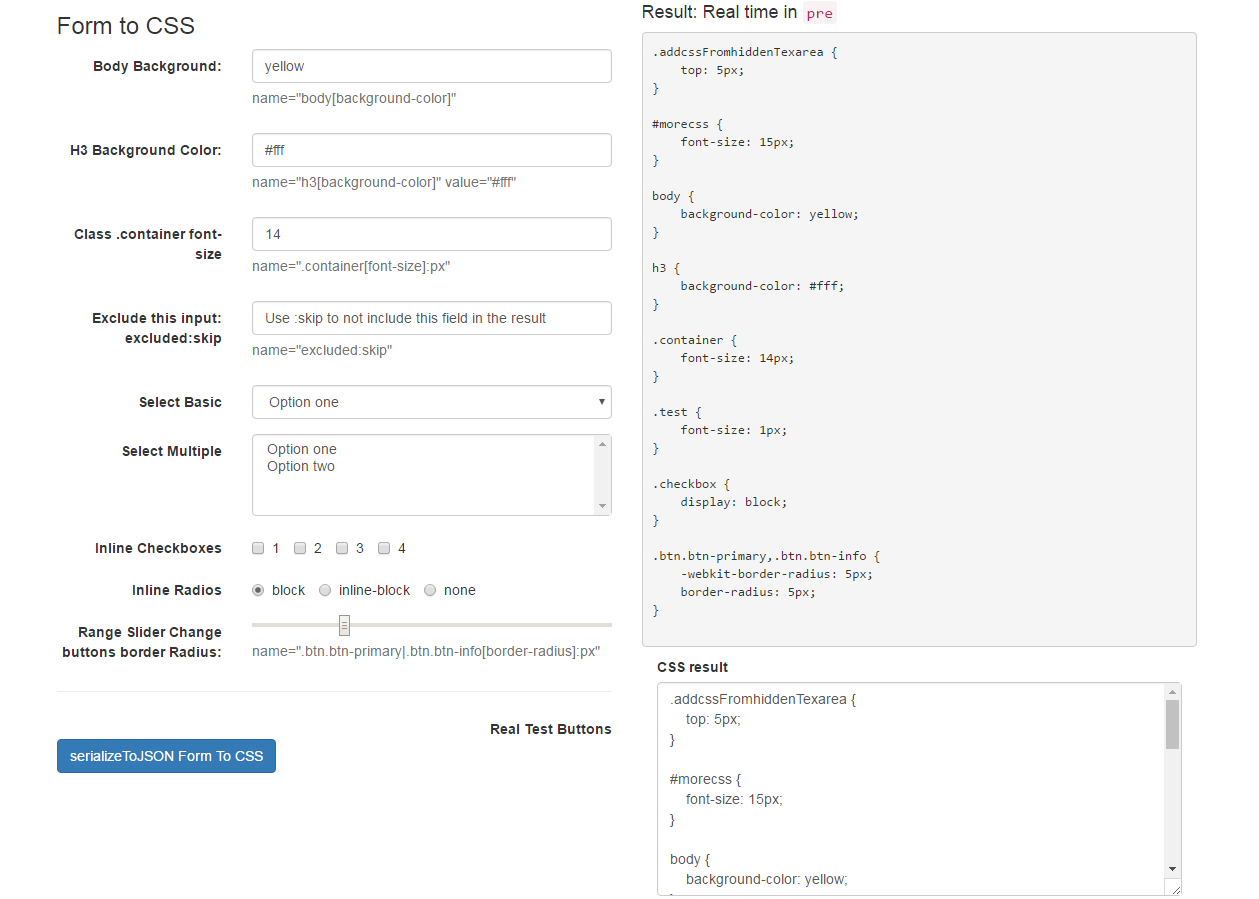
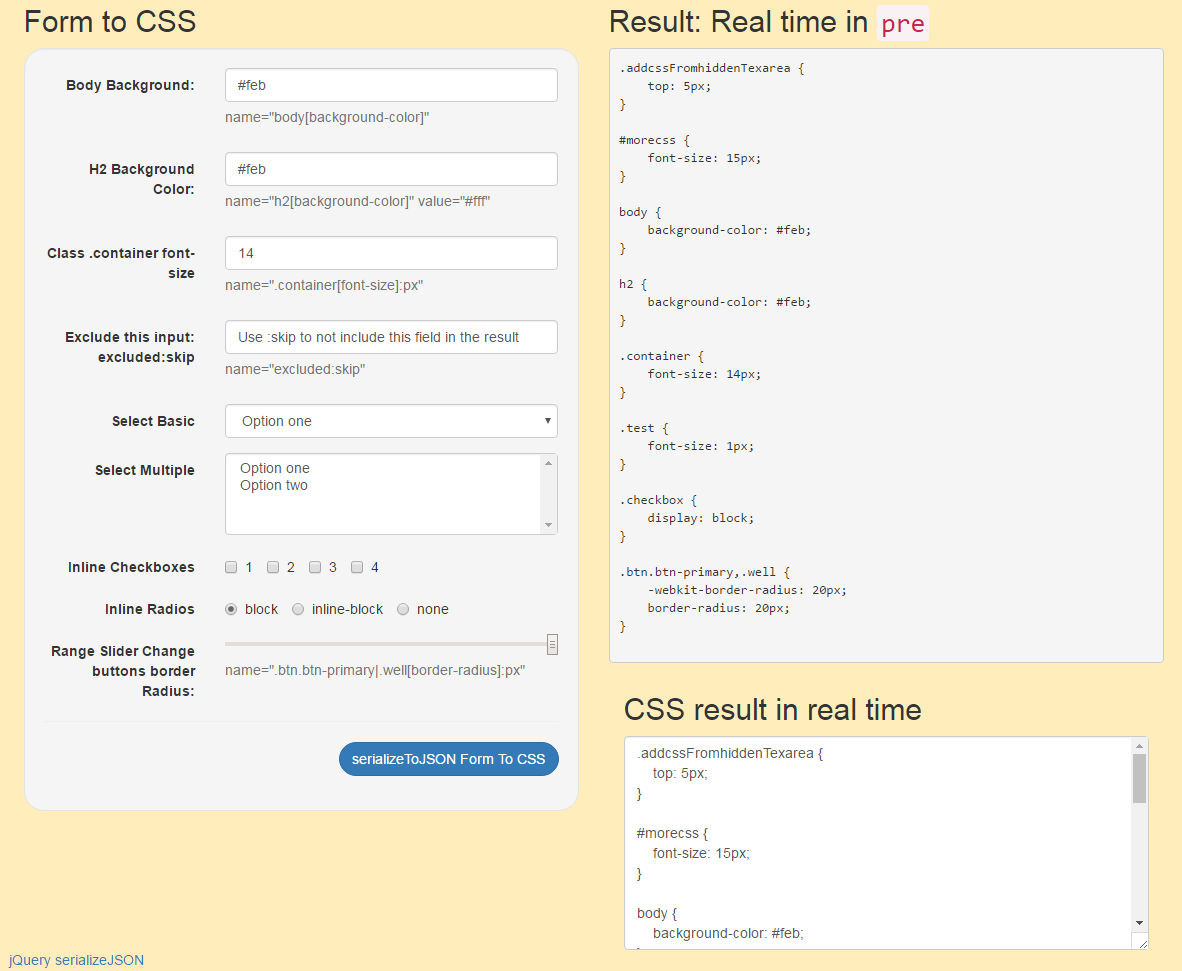
update example and screenshot

diff --git a/example/demo.html b/example/demo.html
@@ -42,10 +42,10 @@
 
                         <!-- Text input-->
                         <div class="form-group">
-                            <label class="col-md-4 control-label">H3 Background Color:</label>
+                            <label class="col-md-4 control-label">H2 Background Color:</label>
                             <div class="col-md-8">
-                                <input type="text" class="form-control input-md" name="h3[background-color]" value="#fff" />
-                                <span class="help-block">name="h3[background-color]" value="#fff"</span>
+                                <input type="text" class="form-control input-md" name="h2[background-color]" value="#fff" />
+                                <span class="help-block">name="h2[background-color]" value="#fff"</span>
                             </div>
                         </div>
 
@@ -129,8 +129,8 @@
                             <label class="col-md-4 control-label">Range Slider Change buttons border Radius:
                             </label>
                             <div class="col-md-8">
-                                <input max="20" min="0" name=".btn.btn-primary|.btn.btn-info[border-radius]:px" step="1" type="range" value="5" />
-                                <span class="help-block">name=".btn.btn-primary|.btn.btn-info[border-radius]:px"</span>
+                                <input max="20" min="0" name=".btn.btn-primary|.well[border-radius]:px" step="1" type="range" value="5" />
+                                <span class="help-block">name=".btn.btn-primary|.well[border-radius]:px"</span>
                             </div>
                         </div>
                         <hr />
